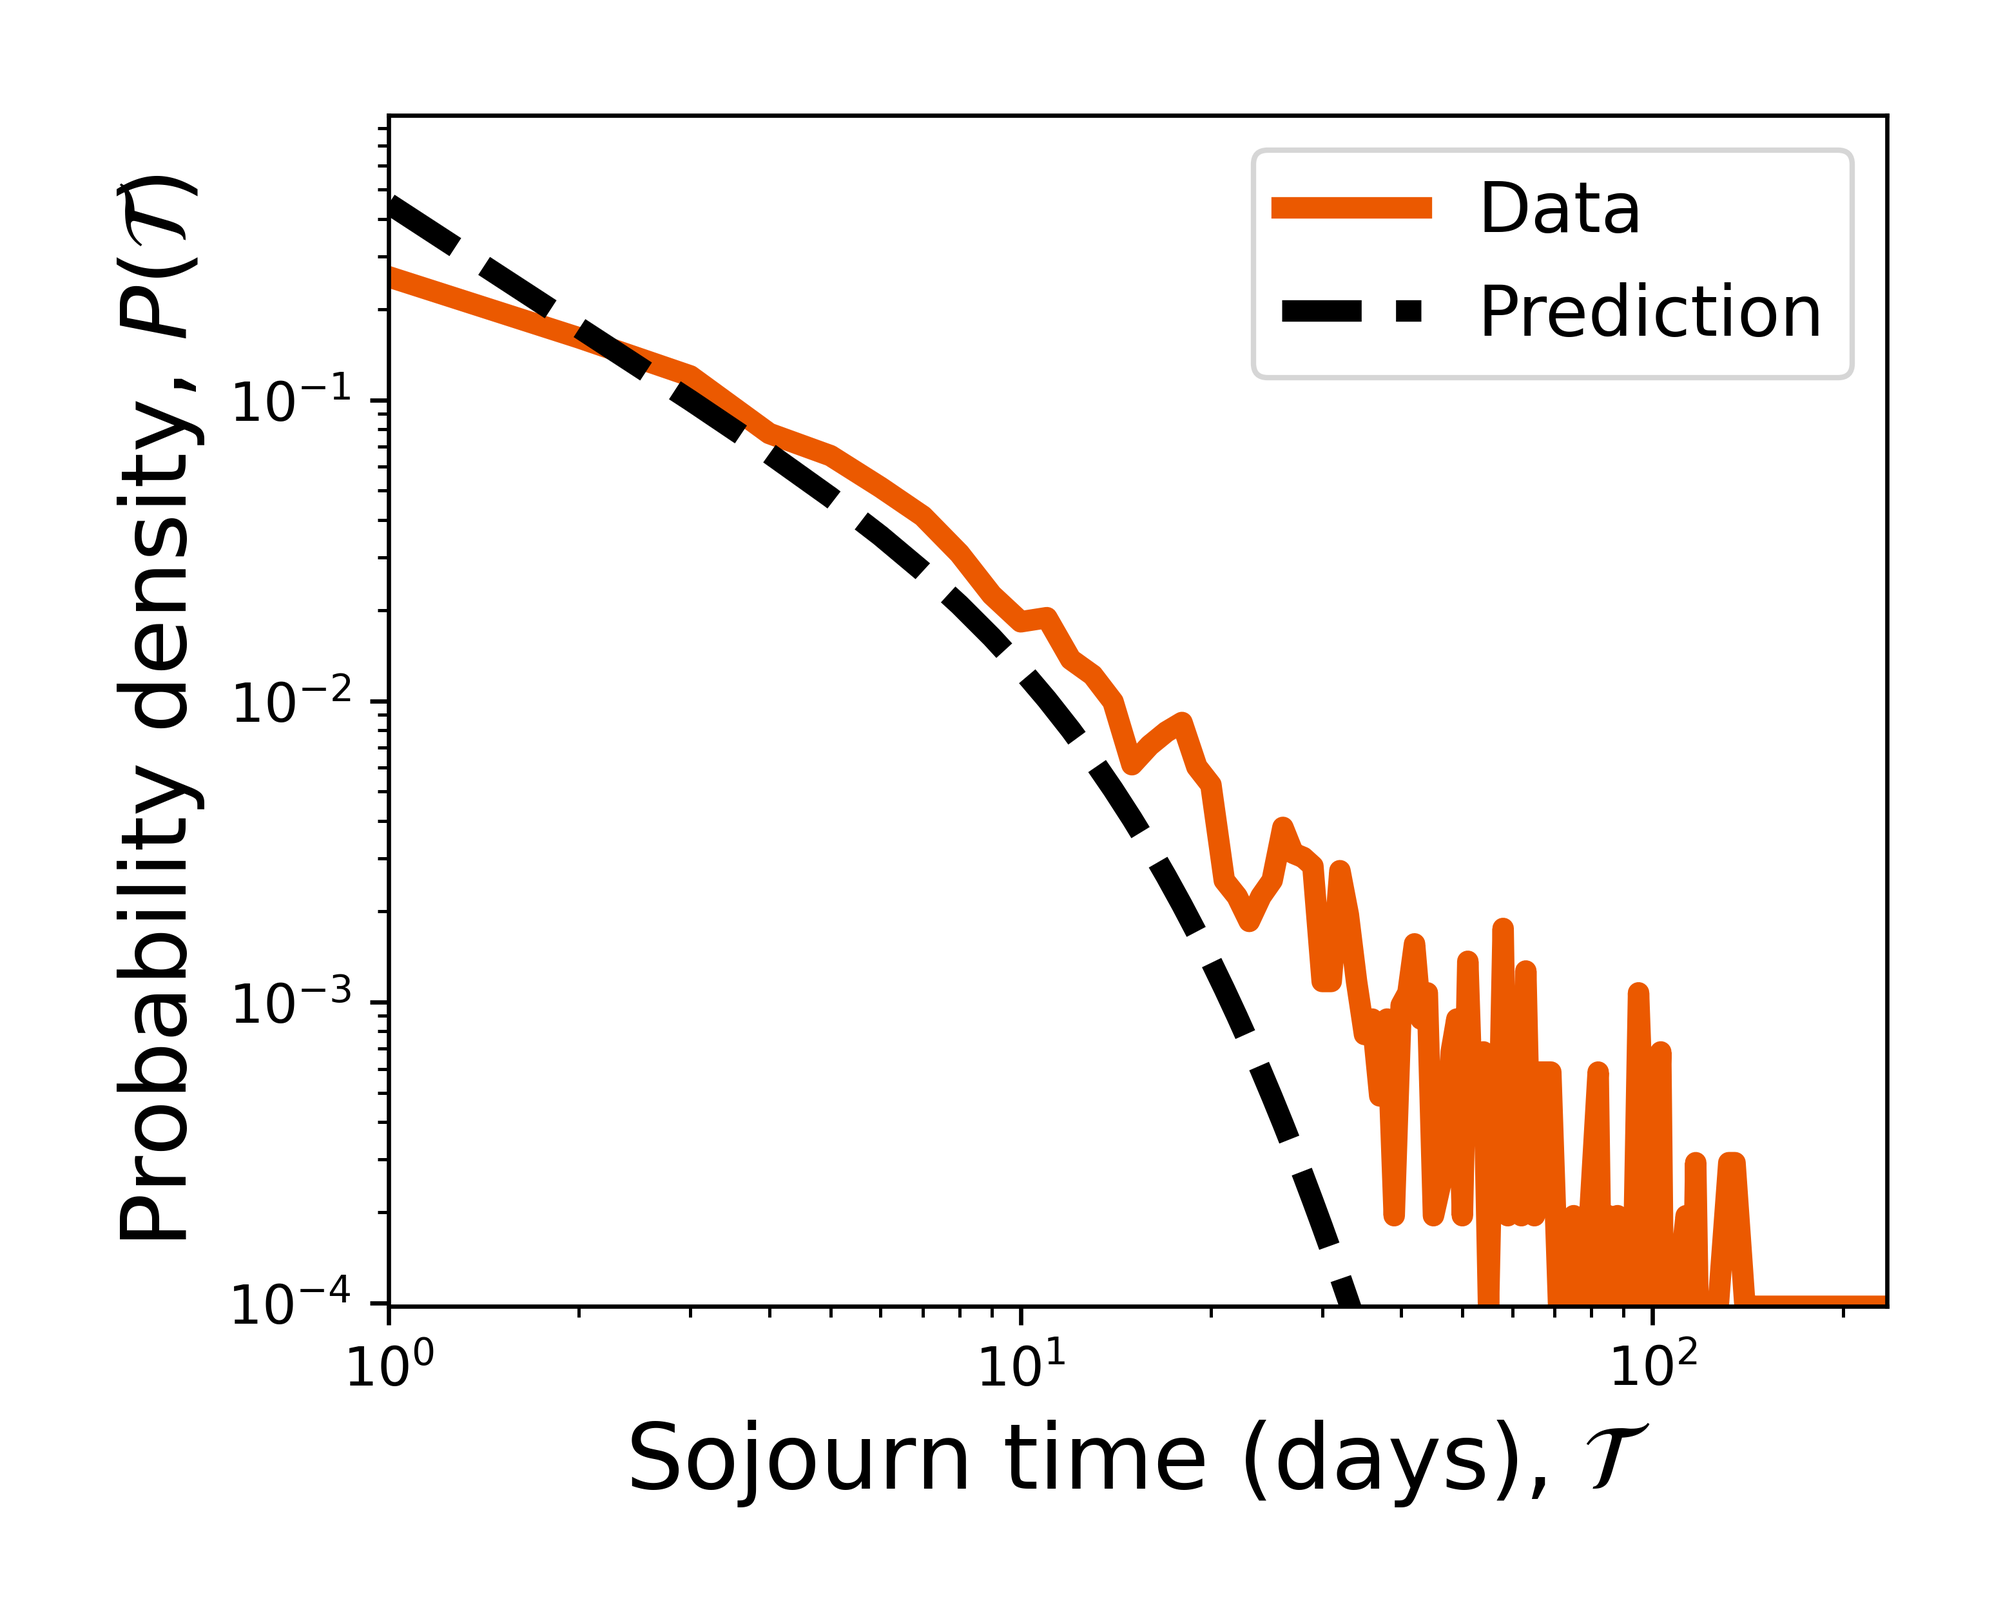
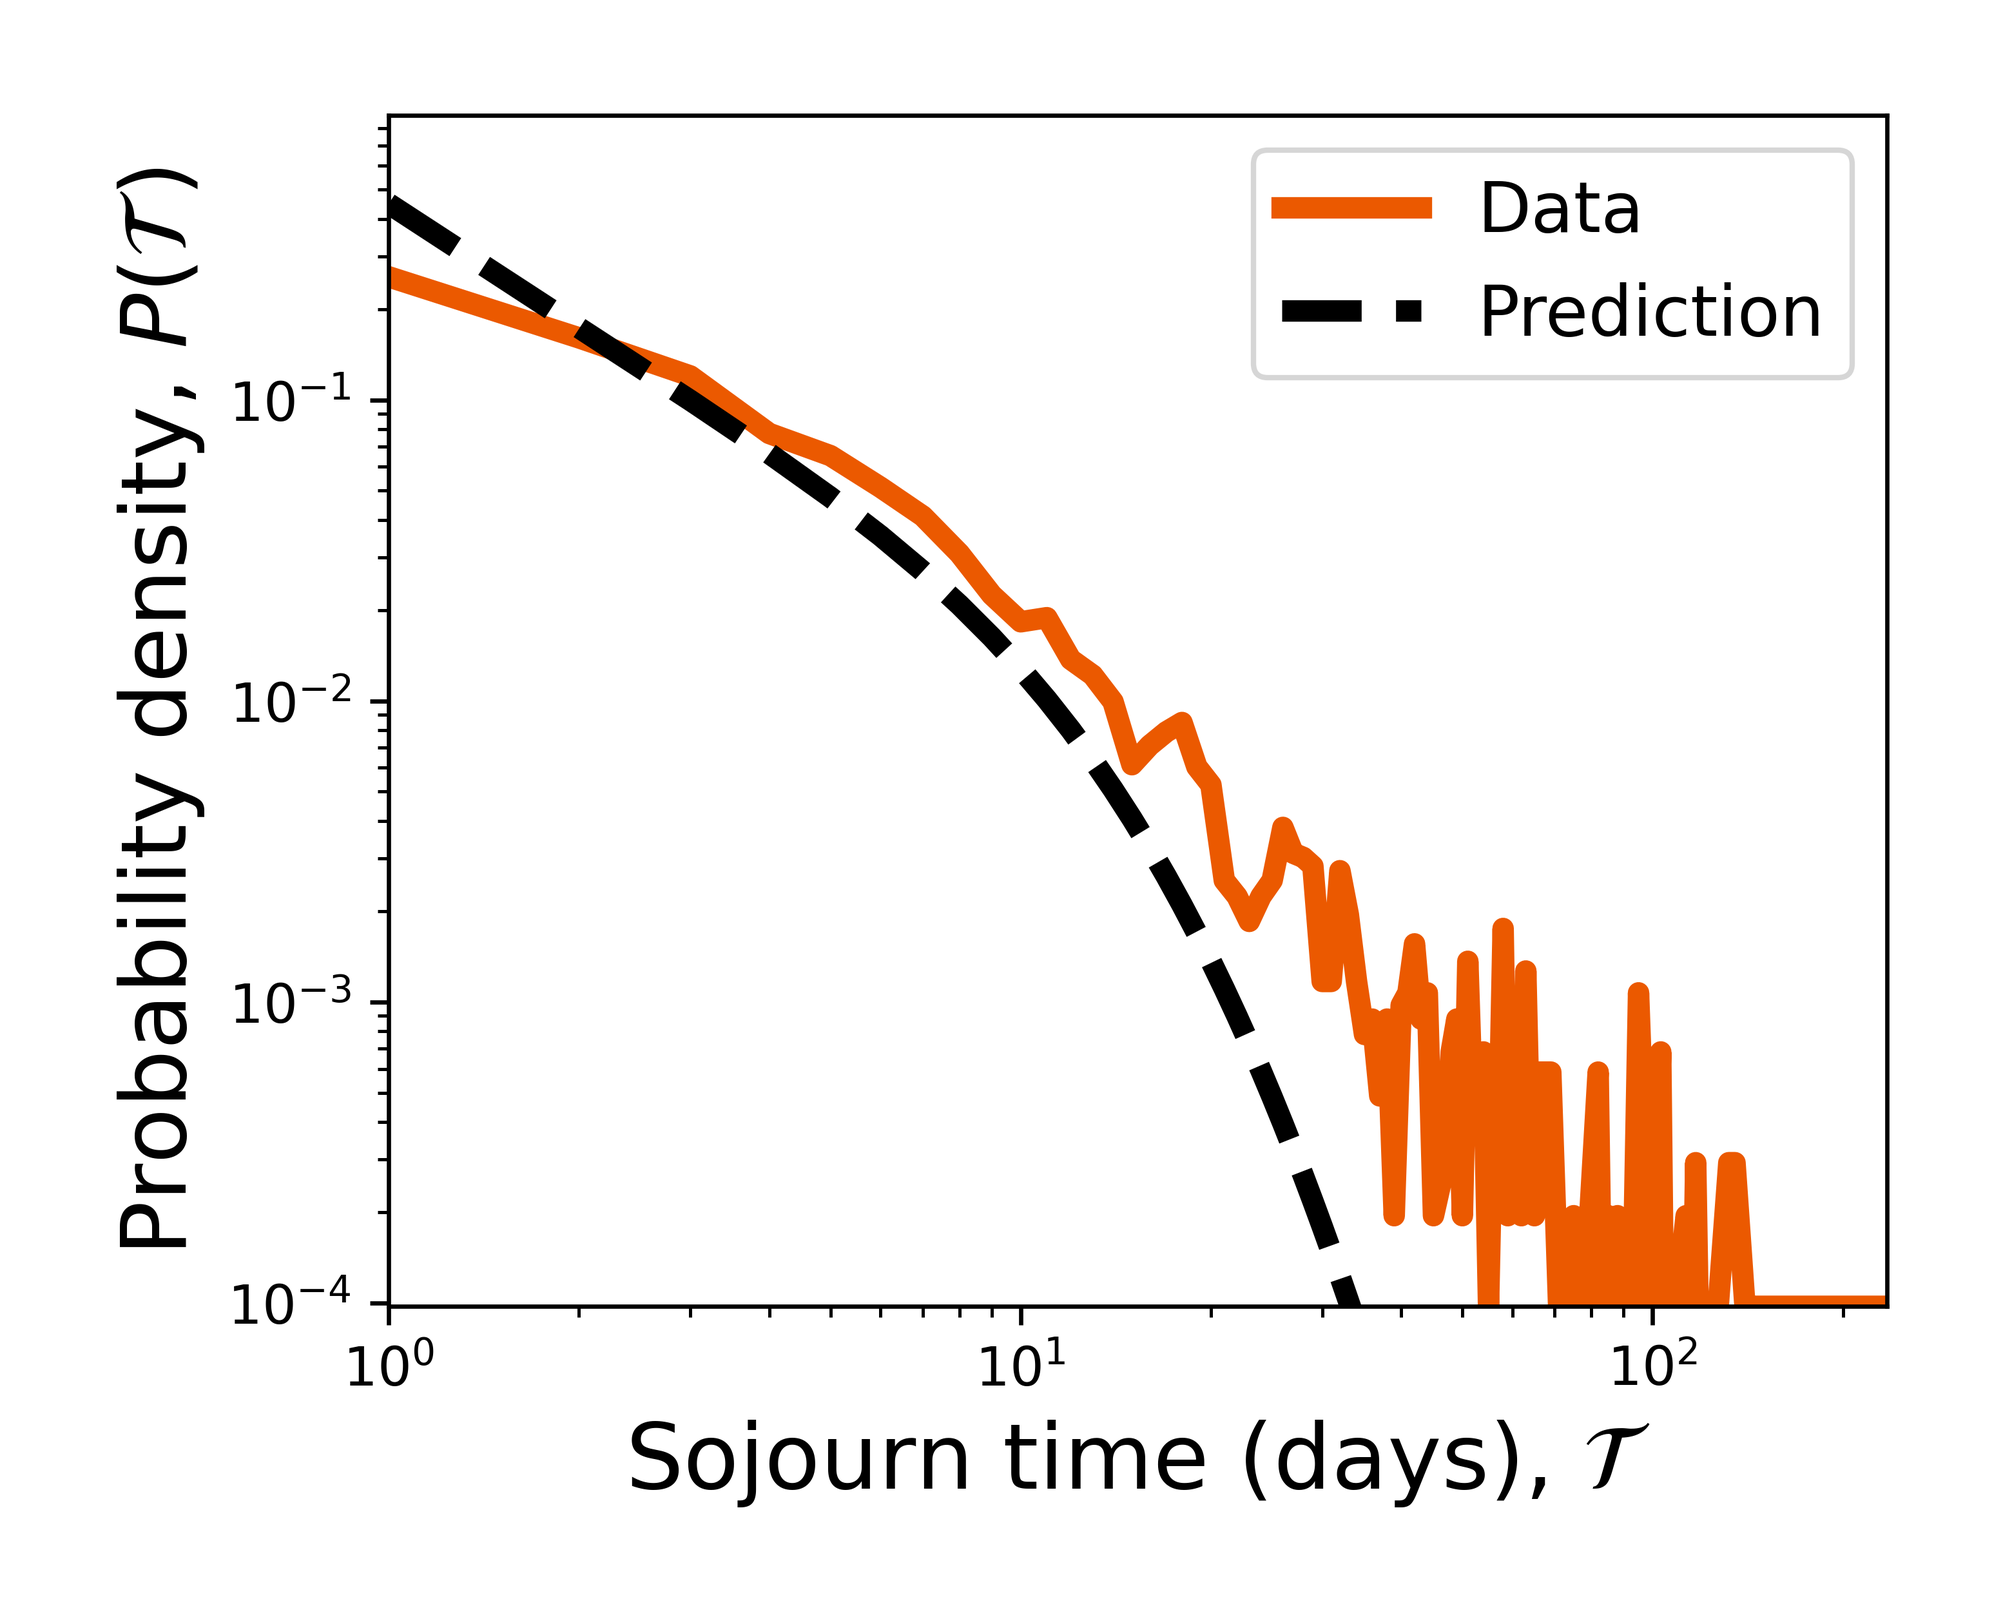
conceptual fig2

Changed region(s): [[0.0624, 0.2476, 0.0936, 0.7738], [0.0624, 0.0929, 0.0936, 0.2167]]

diff --git a/scripts/plot_example_asv_trajectories.py b/scripts/plot_example_asv_trajectories.py
@@ -45,6 +45,9 @@ t_range = numpy.arange(t_total)
 n_asvs = 20
 sigma=1
 tau = 4
+target_asv_color = '#eb5900'
+#'darkred':              '#8B0000',
+
 
 
 lw_target=1.8
@@ -77,123 +80,170 @@ def make_example_asv_trajectory_dict():
 
 
 
-#make_example_asv_trajectory_dict()
-# load the dictionary
-trajectory_dict = pickle.load(open(trajectory_dict_path, "rb"))
+
+def plot_example_fig1():
+
+    #make_example_asv_trajectory_dict()
+    # load the dictionary
+    trajectory_dict = pickle.load(open(trajectory_dict_path, "rb"))
 
 
-asv_trajectory_all = numpy.stack(trajectory_dict['asv_trajectory_all'])
-rel_asv_trajectory_all = asv_trajectory_all/numpy.sum(asv_trajectory_all, axis=0)
+    asv_trajectory_all = numpy.stack(trajectory_dict['asv_trajectory_all'])
+    rel_asv_trajectory_all = asv_trajectory_all/numpy.sum(asv_trajectory_all, axis=0)
+
+    color_palette = ['#3B9AB2', '#78B7C5', '#EBCC2A', '#E1AF00', '#F21A00']
+    cmap = LinearSegmentedColormap.from_list('life_aquatic', color_palette, N=n_asvs)
+    #target_asv_color = '#e49700'
+
+    #target_asv_idx = 15
+    target_asv_idx = 17
+    target_asv_trajectory = rel_asv_trajectory_all[target_asv_idx]
+    target_asv_k = 10**trajectory_dict['log10_k_all'][target_asv_idx]
 
 
+    fig, ax = plt.subplots(figsize=(7.5,3))
+    for rel_asv_trajectory_idx, rel_asv_trajectory in enumerate(rel_asv_trajectory_all):
+        cmap_i = cmap(rel_asv_trajectory_idx)
+        cmap_hex_i = colors.to_hex(cmap_i)    
 
-color_palette = ['#3B9AB2', '#78B7C5', '#EBCC2A', '#E1AF00', '#F21A00']
-cmap = LinearSegmentedColormap.from_list('life_aquatic', color_palette, N=n_asvs)
-#target_asv_color = '#e49700'
-target_asv_color = '#eb5900'
+        if rel_asv_trajectory_idx == target_asv_idx:
+            lw=lw_target
+            alpha=alpha_target
 
-#target_asv_idx = 15
-target_asv_idx = 17
-target_asv_trajectory = rel_asv_trajectory_all[target_asv_idx]
-target_asv_k = 10**trajectory_dict['log10_k_all'][target_asv_idx]
+        else:
+            lw=0.6
+            alpha=0.5
 
-
-fig, ax = plt.subplots(figsize=(7.5,3))
-for rel_asv_trajectory_idx, rel_asv_trajectory in enumerate(rel_asv_trajectory_all):
-    cmap_i = cmap(rel_asv_trajectory_idx)
-    cmap_hex_i = colors.to_hex(cmap_i)    
-
-    if rel_asv_trajectory_idx == target_asv_idx:
-        lw=lw_target
-        alpha=alpha_target
-
-    else:
-        lw=0.6
-        alpha=0.5
-
-    ax.plot(t_range, rel_asv_trajectory, alpha=alpha, lw=lw, c=cmap_i)
+        ax.plot(t_range, rel_asv_trajectory, alpha=alpha, lw=lw, c=cmap_i)
 
 
-ax.set_xlim([1,t_total])
-ax.set_ylim([4*(10**-8),1])
-ax.set_yscale('log', base=10)
+    ax.set_xlim([1,t_total])
+    ax.set_ylim([4*(10**-8),1])
+    ax.set_yscale('log', base=10)
 
-ax.set_xlabel("Time (days), " + r'$t$', fontsize=label_fontsize)
-ax.set_ylabel("Relative abundance, " + r'$x(t)$', fontsize=label_fontsize)
+    ax.set_xlabel("Time (days), " + r'$t$', fontsize=label_fontsize)
+    ax.set_ylabel("Relative abundance, " + r'$x(t)$', fontsize=label_fontsize)
 
-ax.xaxis.set_tick_params(labelsize=7)
-ax.yaxis.set_tick_params(labelsize=7)
-
-
-
-fig.subplots_adjust(hspace=0.25, wspace=0.25)
-fig_name = "%sex_asv_trajectory.png" % (config.analysis_directory)
-fig.savefig(fig_name, format='png', bbox_inches = "tight", pad_inches = 0.3, dpi = 600)
-plt.close()
-
-
-#fig, ax = plt.subplots(figsize=(7.5,3))
-fig, ax = plt.subplots(figsize=(16,3))
-
-# get parameters of target trajectory
-mean_x = numpy.mean(target_asv_trajectory)
-std_x = numpy.std(target_asv_trajectory)
-cv_x = std_x/mean_x
-
-# rescale
-#mean_gamma, cv_gamma = simulation_utils.calculate_mean_and_cv_slm(target_asv_k, sigma)
-
-log_rescaled_target_asv_trajectory = numpy.log(target_asv_trajectory/mean_x)
-#print(numpy.mean(log_rescaled_target_asv_trajectory))
-#mean_log_gamma = stats_utils.expected_value_log_gamma(mean_x, cv_x)
-diff_log_rescaled_target_asv_trajectory = log_rescaled_target_asv_trajectory - numpy.mean(log_rescaled_target_asv_trajectory)
-
-
-ax.plot(t_range, diff_log_rescaled_target_asv_trajectory, alpha=alpha_target, lw=lw_target, c=target_asv_color)
-ax.set_xlim([1,t_total])
-ax.set_ylim([-3.2,3.2])
-ax.axhline(y=0, lw=2, ls='--', c='k')
+    ax.xaxis.set_tick_params(labelsize=7)
+    ax.yaxis.set_tick_params(labelsize=7)
 
 
 
-t_area_start = 126
-t_area_stop = 159
-t_range_area = numpy.arange(t_area_start, t_area_stop)
-ax.fill_between(t_range_area, 0, diff_log_rescaled_target_asv_trajectory[t_area_start:t_area_stop], color=target_asv_color, alpha=0.4, zorder=1)
+    fig.subplots_adjust(hspace=0.25, wspace=0.25)
+    fig_name = "%sex_asv_trajectory.png" % (config.analysis_directory)
+    fig.savefig(fig_name, format='png', bbox_inches = "tight", pad_inches = 0.3, dpi = 600)
+    plt.close()
 
 
-ax.set_title('Temporal dynamics of a single community member', fontsize=16)
-ax.set_xlabel("Time (days), " + r'$t$', fontsize=label_fontsize)
-ax.set_ylabel("Deviation from typical\n" + r'$\mathrm{log}_{e}$' + " abundance, " + r'$y(t) - \bar{y}$', fontsize=label_fontsize)
-ax.xaxis.set_tick_params(labelsize=7)
-ax.yaxis.set_tick_params(labelsize=7)
+    #fig, ax = plt.subplots(figsize=(7.5,3))
+    fig, ax = plt.subplots(figsize=(16,3))
+
+    # get parameters of target trajectory
+    mean_x = numpy.mean(target_asv_trajectory)
+    std_x = numpy.std(target_asv_trajectory)
+    cv_x = std_x/mean_x
+
+    # rescale
+    #mean_gamma, cv_gamma = simulation_utils.calculate_mean_and_cv_slm(target_asv_k, sigma)
+
+    log_rescaled_target_asv_trajectory = numpy.log(target_asv_trajectory/mean_x)
+    #print(numpy.mean(log_rescaled_target_asv_trajectory))
+    #mean_log_gamma = stats_utils.expected_value_log_gamma(mean_x, cv_x)
+    diff_log_rescaled_target_asv_trajectory = log_rescaled_target_asv_trajectory - numpy.mean(log_rescaled_target_asv_trajectory)
+
+
+    ax.plot(t_range, diff_log_rescaled_target_asv_trajectory, alpha=alpha_target, lw=lw_target, c=target_asv_color)
+    ax.set_xlim([1,t_total])
+    ax.set_ylim([-3.2,3.2])
+    ax.axhline(y=0, lw=2, ls='--', c='k')
 
 
 
-
-fig.subplots_adjust(hspace=0.25, wspace=0.25)
-fig_name = "%sex_asv_trajectorry_rescaled.png" % (config.analysis_directory)
-fig.savefig(fig_name, format='png', bbox_inches = "tight", pad_inches = 0.3, dpi = 600)
-plt.close()
-
-
-# plot notation
-
-fig, ax = plt.subplots(figsize=(7.5,3))
+    t_area_start = 126
+    t_area_stop = 159
+    t_range_area = numpy.arange(t_area_start, t_area_stop)
+    ax.fill_between(t_range_area, 0, diff_log_rescaled_target_asv_trajectory[t_area_start:t_area_stop], color=target_asv_color, alpha=0.4, zorder=1)
 
 
-ax.text(0.05, 0.7, "Sojourn trajectory area, " +  r'$\mathcal{A}(\mathcal{T}\, ) \equiv \int_{0}^{1} \left [ y(s \cdot \mathcal{T} \, ) - \bar{y} \right ] \, ds$', fontsize=15, transform=ax.transAxes)
-ax.text(0.05, 0.5, "Sojourn time, " +  r'$\mathcal{T}$', fontsize=15, transform=ax.transAxes)
-ax.text(0.01, 0.3, "Typical deviation within sojourn trajectory, " +  r'$\left < y(t) - \bar{y} \right >_{\mathcal{T}}$', fontsize=15, transform=ax.transAxes)
+    ax.set_title('Temporal dynamics of a single community member', fontsize=16)
+    ax.set_xlabel("Time (days), " + r'$t$', fontsize=label_fontsize)
+    ax.set_ylabel("Deviation from typical\n" + r'$\mathrm{log}_{e}$' + " abundance, " + r'$y(t) - \bar{y}$', fontsize=label_fontsize)
+    ax.xaxis.set_tick_params(labelsize=7)
+    ax.yaxis.set_tick_params(labelsize=7)
 
 
 
 
-#fig.subplots_adjust(hspace=0.25, wspace=0.25)
-fig_name = "%snotation.png" % (config.analysis_directory)
-fig.savefig(fig_name, format='png', bbox_inches = "tight", pad_inches = 0.3, dpi = 600)
-plt.close()
+    fig.subplots_adjust(hspace=0.25, wspace=0.25)
+    fig_name = "%sex_asv_trajectorry_rescaled.png" % (config.analysis_directory)
+    fig.savefig(fig_name, format='png', bbox_inches = "tight", pad_inches = 0.3, dpi = 600)
+    plt.close()
+
+
+    # plot notation
+
+    fig, ax = plt.subplots(figsize=(7.5,3))
+
+
+    ax.text(0.05, 0.7, "Sojourn trajectory area, " +  r'$\mathcal{A}(\mathcal{T}\, ) \equiv \int_{0}^{1} \left [ y(s \cdot \mathcal{T} \, ) - \bar{y} \right ] \, ds$', fontsize=15, transform=ax.transAxes)
+    ax.text(0.05, 0.5, "Sojourn time, " +  r'$\mathcal{T}$', fontsize=15, transform=ax.transAxes)
+    ax.text(0.01, 0.3, "Typical deviation within sojourn trajectory, " +  r'$\left < y(t) - \bar{y} \right >_{\mathcal{T}}$', fontsize=15, transform=ax.transAxes)
+
+    ax.text(0.01, 0.1, r'$\sigma$', fontsize=15, color=target_asv_color, transform=ax.transAxes)
+    ax.text(0.3, 0.1, r'$>$', fontsize=15, color='k', transform=ax.transAxes)
+    ax.text(0.5, 0.1, r'$\sigma$', fontsize=15, color='darkred', transform=ax.transAxes)
 
 
 
 
+    #fig.subplots_adjust(hspace=0.25, wspace=0.25)
+    fig_name = "%snotation.png" % (config.analysis_directory)
+    fig.savefig(fig_name, format='png', bbox_inches = "tight", pad_inches = 0.3, dpi = 600)
+    plt.close()
+
+
+
+def plot_example_fig2():
+
+    log10_k = 5
+    sigma_1 = 0.6
+    sigma_2 = 1
+
+    asv_trajectory_1 = simulation_utils.simulate_slm_trajectory(t_total=t_total, n_reps=1, k=10**log10_k, sigma=sigma_1, tau=tau, epsilon=0.001)[1:,0]
+    asv_trajectory_2 = simulation_utils.simulate_slm_trajectory(t_total=t_total, n_reps=1, k=10**log10_k, sigma=sigma_2, tau=tau, epsilon=0.001)[1:,0]
+
+
+    log_rescaled_asv_trajectory_1 = numpy.log(asv_trajectory_1/numpy.mean(asv_trajectory_1))
+    diff_log_rescaled_asv_trajectory_1 = log_rescaled_asv_trajectory_1 - numpy.mean(log_rescaled_asv_trajectory_1)
+
+    log_rescaled_asv_trajectory_2 = numpy.log(asv_trajectory_2/numpy.mean(asv_trajectory_2))
+    diff_log_rescaled_asv_trajectory_2 = log_rescaled_asv_trajectory_2 - numpy.mean(log_rescaled_asv_trajectory_2)
+
+
+    fig, ax = plt.subplots(figsize=(6,3))
+
+    ax.plot(t_range, diff_log_rescaled_asv_trajectory_1, alpha=1, lw=2, c=target_asv_color)
+    ax.plot(t_range, diff_log_rescaled_asv_trajectory_2, alpha=1, lw=2, c='darkred')
+
+    ax.set_xlim([1,89])
+    ax.set_ylim([-3.2,3.2])
+    ax.axhline(y=0, lw=2, ls='--', c='k')
+
+    ax.set_xticklabels([])
+    ax.set_yticklabels([])
+   
+
+    ax.set_xlabel("Time (days), " + r'$t$', fontsize=label_fontsize)
+    ax.set_ylabel("Deviation from typical\n" + r'$\mathrm{log}_{e}$' + " abundance, " + r'$y(t) - \bar{y}$', fontsize=label_fontsize)
+
+
+
+
+    fig_name = "%sfig2_conceptual.png" % (config.analysis_directory)
+    fig.savefig(fig_name, format='png', bbox_inches = "tight", pad_inches = 0.3, dpi = 600)
+    plt.close()
+
+
+
+plot_example_fig1()
+#plot_example_fig2()

diff --git a/scripts/plot_fig2.py b/scripts/plot_fig2.py
@@ -75,6 +75,7 @@ for host in host_all:
         pred_mean_sojourn_all.append(sum(sojourn_time_ou_pdf*sojourn_time_range))
 
 
+
 def plot_cv_vs_mean_sojourn():
 
     fig, ax = plt.subplots(figsize=(6,4))
@@ -88,6 +89,9 @@ def plot_cv_vs_mean_sojourn():
     y_log10_fit_mean = (slope_mean*x_log10_range_mean + intercept_mean)
     y_log10_pred_mean = x_log10_range_mean*0 + intercept_mean
 
+    spearman_rho, p_value = stats.spearmanr(numpy.log10(cv_all), numpy.log10(obs_mean_sojourn_all))
+    ax.text(0.05, 0.73, r'$\rho_{\mathrm{Spearman}} = $' + str(round(spearman_rho, 3)), fontsize=11, transform=ax.transAxes)
+    ax.text(0.17, 0.66, r'$P < 10^{-3}$', fontsize=11, transform=ax.transAxes)
 
     #ax_mean.plot(10**x_log10_range_mean, 10**y_log10_fit_mean, c='k', lw=2.5, linestyle=':', zorder=2, label="Regression")
     #ax_mean.plot(10**x_log10_range_mean, 10**y_log10_pred_mean, c='k', lw=3, linestyle='--', zorder=2, label="Prediction")
@@ -119,10 +123,10 @@ def plot_cv_vs_mean_sojourn():
     ax.plot(10**bins_mean_all_to_keep_no_nan, 10**bins_y_no_nan, lw=3 , c='k', ls='--', label="Prediction")
 
     #ax_mean.set_xlabel("Mean relative abundance, " + r'$\bar{x}$', fontsize=14)
-    ax.set_xlabel("CV of relative abundance, " + r'$\mathrm{CV}_{x}$', fontsize=14)
+    ax.set_xlabel("CV of relative abundance (function of " + r'$\sigma$' + ')', fontsize=15)
 
     #ax_mean.set_ylabel("Mean sojourn time (days), " + r'$\left < \mathcal{T} \right>$', fontsize=14)
-    ax.set_ylabel("Mean sojourn time (days), " + r'$\left < \mathcal{T} \right>$', fontsize=14)
+    ax.set_ylabel("Mean sojourn time (days), " + r'$\left < \mathcal{T} \, \right>$', fontsize=15)
 
 
     y_lim_min = 1.3
@@ -191,7 +195,7 @@ def plot_mean_vs_mean_sojourn():
 
 
 
-#plot_cv_vs_mean_sojourn()
-plot_mean_vs_mean_sojourn()
+plot_cv_vs_mean_sojourn()
+#plot_mean_vs_mean_sojourn()
 
 

diff --git a/scripts/plot_sojourn_time_vs_integral.py b/scripts/plot_sojourn_time_vs_integral.py
@@ -144,7 +144,7 @@ ax.plot(10**x_log10_range_time, 10**y_log10_time_low_tau, c='k', lw=3, linestyle
 
 
 ax.set_xlabel('Sojourn time (days), ' + r'$\mathcal{T}$', fontsize=17)
-ax.set_ylabel("Sojourn trajectory area, " + r'$\mathcal{A}(\mathcal{T})$', fontsize=17)
+ax.set_ylabel("Sojourn trajectory area, " + r'$\mathcal{A}(\mathcal{T} \, )$', fontsize=17)
 ax.legend(loc='upper left', fontsize=10)
 
 ax.set_ylim([0.05, 60])
@@ -172,7 +172,7 @@ ax_sigma.plot(10**x_log10_range_sigma, 10**y_log10_sigma, c='k', lw=2.5, linesty
 
 ax_sigma.set_xlabel('Inverse environmental\nnoise, ' + r'$2\sigma^{-1} -2$', fontsize=12)
 #bbox=dict(facecolor='white', edgecolor='none')
-ax_sigma.set_ylabel(r'$\mathcal{A}(\mathcal{T})$', fontsize=12)
+ax_sigma.set_ylabel(r'$\mathcal{A}(\mathcal{T}\,)$', fontsize=12)
 
 #inset_ax.set_xlabel('Inset X-label', bbox=dict(facecolor='white', edgecolor='none'))
 

diff --git a/scripts/plot_sojourn_trajectory_data.py b/scripts/plot_sojourn_trajectory_data.py
@@ -221,7 +221,7 @@ def plot_mean_sojourn_trajector_data():
     ax.set_xlim([0,1])
     ax.set_ylim([0,max(run_sojourn_merged_final_flat)*1.1])
     ax.set_xlabel('Time within sojourn period, ' + r'$\frac{t}{\mathcal{T}}$', fontsize=17)
-    ax.set_ylabel("Mean sojourn deviation, " + r'$ \left < y(t) - \bar{y} \right >_{\mathcal{T}}$', fontsize=17)
+    ax.set_ylabel("Mean sojourn deviation, " + r'$ \left < y(t) - \bar{y} \right >_{\mathcal{T}}$', fontsize=15)
 
     # colorbar
     #cmap.set_array([])  # Required for colorbar in some versions
@@ -250,6 +250,6 @@ def plot_mean_sojourn_trajector_data():
 
 
 
-plot_sojourn_trajectory_data()
+#plot_sojourn_trajectory_data()
 
-#plot_mean_sojourn_trajector_data()
+plot_mean_sojourn_trajector_data()

diff --git a/scripts/plot_sojourn_time_data_mix.py b/scripts/plot_sojourn_time_data_mix.py
@@ -250,7 +250,7 @@ def plot_sojourn_time_mix_dist(plot_gamma_null=False):
     ax.set_yscale('log', base=10)
 
     ax.set_xlabel('Sojourn time (days), ' + r'$\mathcal{T}$', fontsize=17)
-    ax.set_ylabel("Probability density, " + r'$P(\mathcal{T})$', fontsize=17)
+    ax.set_ylabel("Probability density, " + r'$P(\mathcal{T} \,)$', fontsize=17)
     ax.legend(loc='upper right', fontsize=13)
 
     
